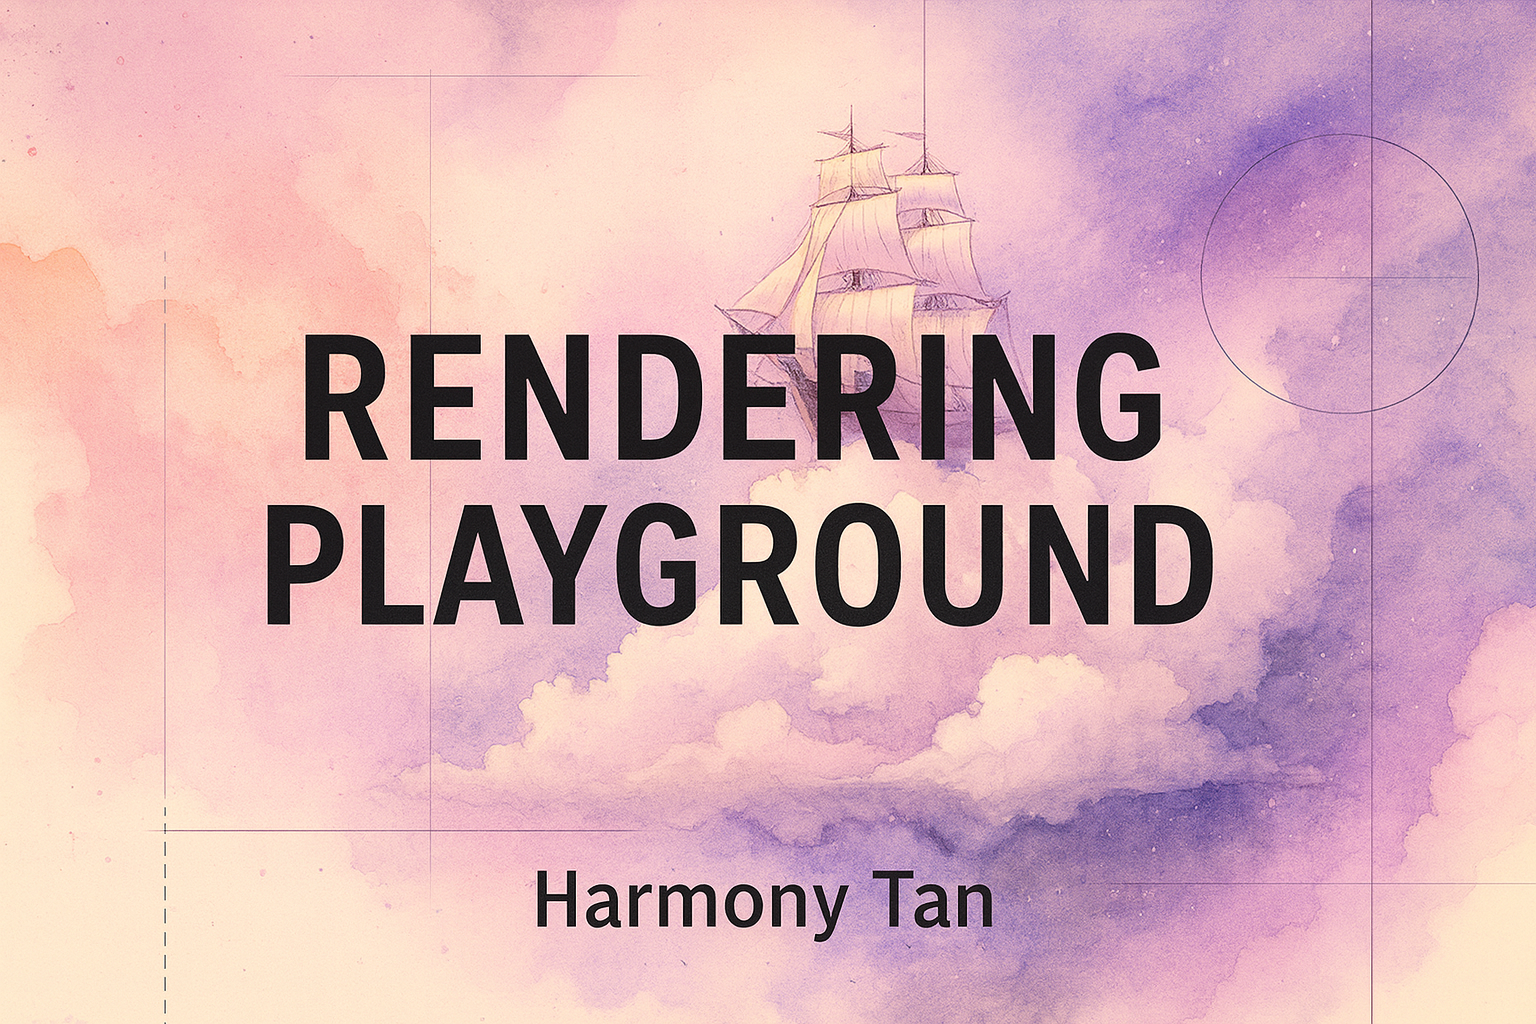
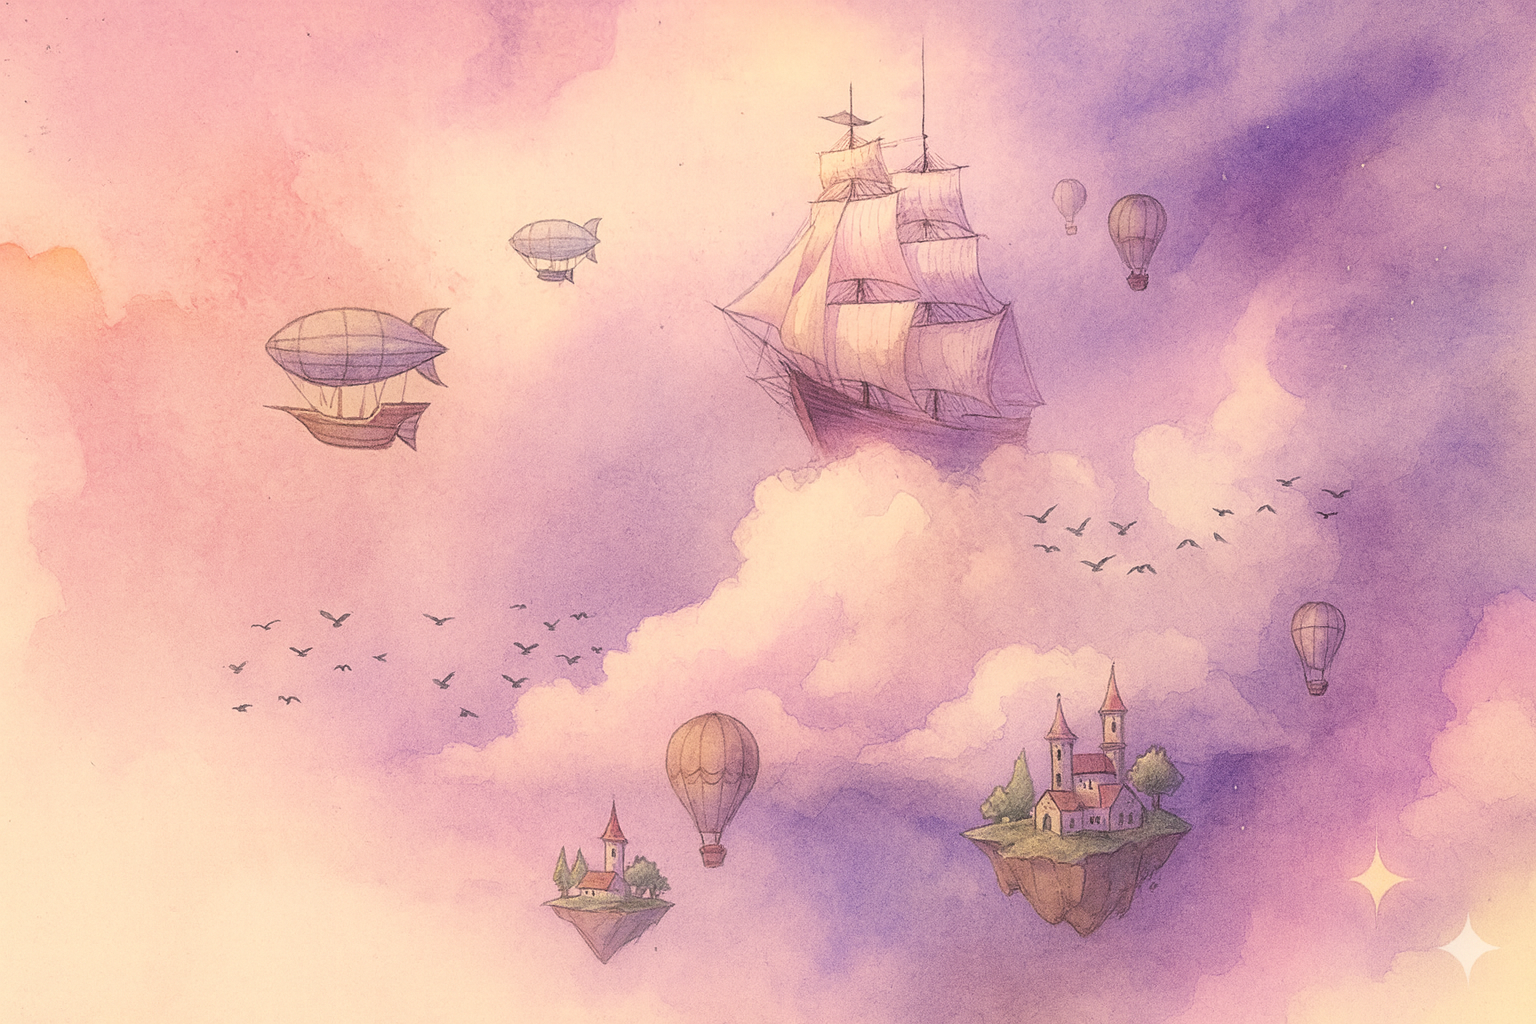
add adjust stype about image, adjust some images

diff --git a/styles/main.css b/styles/main.css
@@ -727,12 +727,12 @@ a:focus-visible {
 
 .article-hero-image {
   margin: 10px auto 0;
-  width: min(960px, 92vw);
-  max-height: 420px;
+  width: min(960px, 94vw);
   border-radius: 12px;
   overflow: hidden;
   box-shadow: var(--shadow-hero);
-  aspect-ratio: 16 / 9;
+  background: var(--color-article-bg);
+  aspect-ratio: 18 / 10;
 }
 
 .article-hero-image img {
